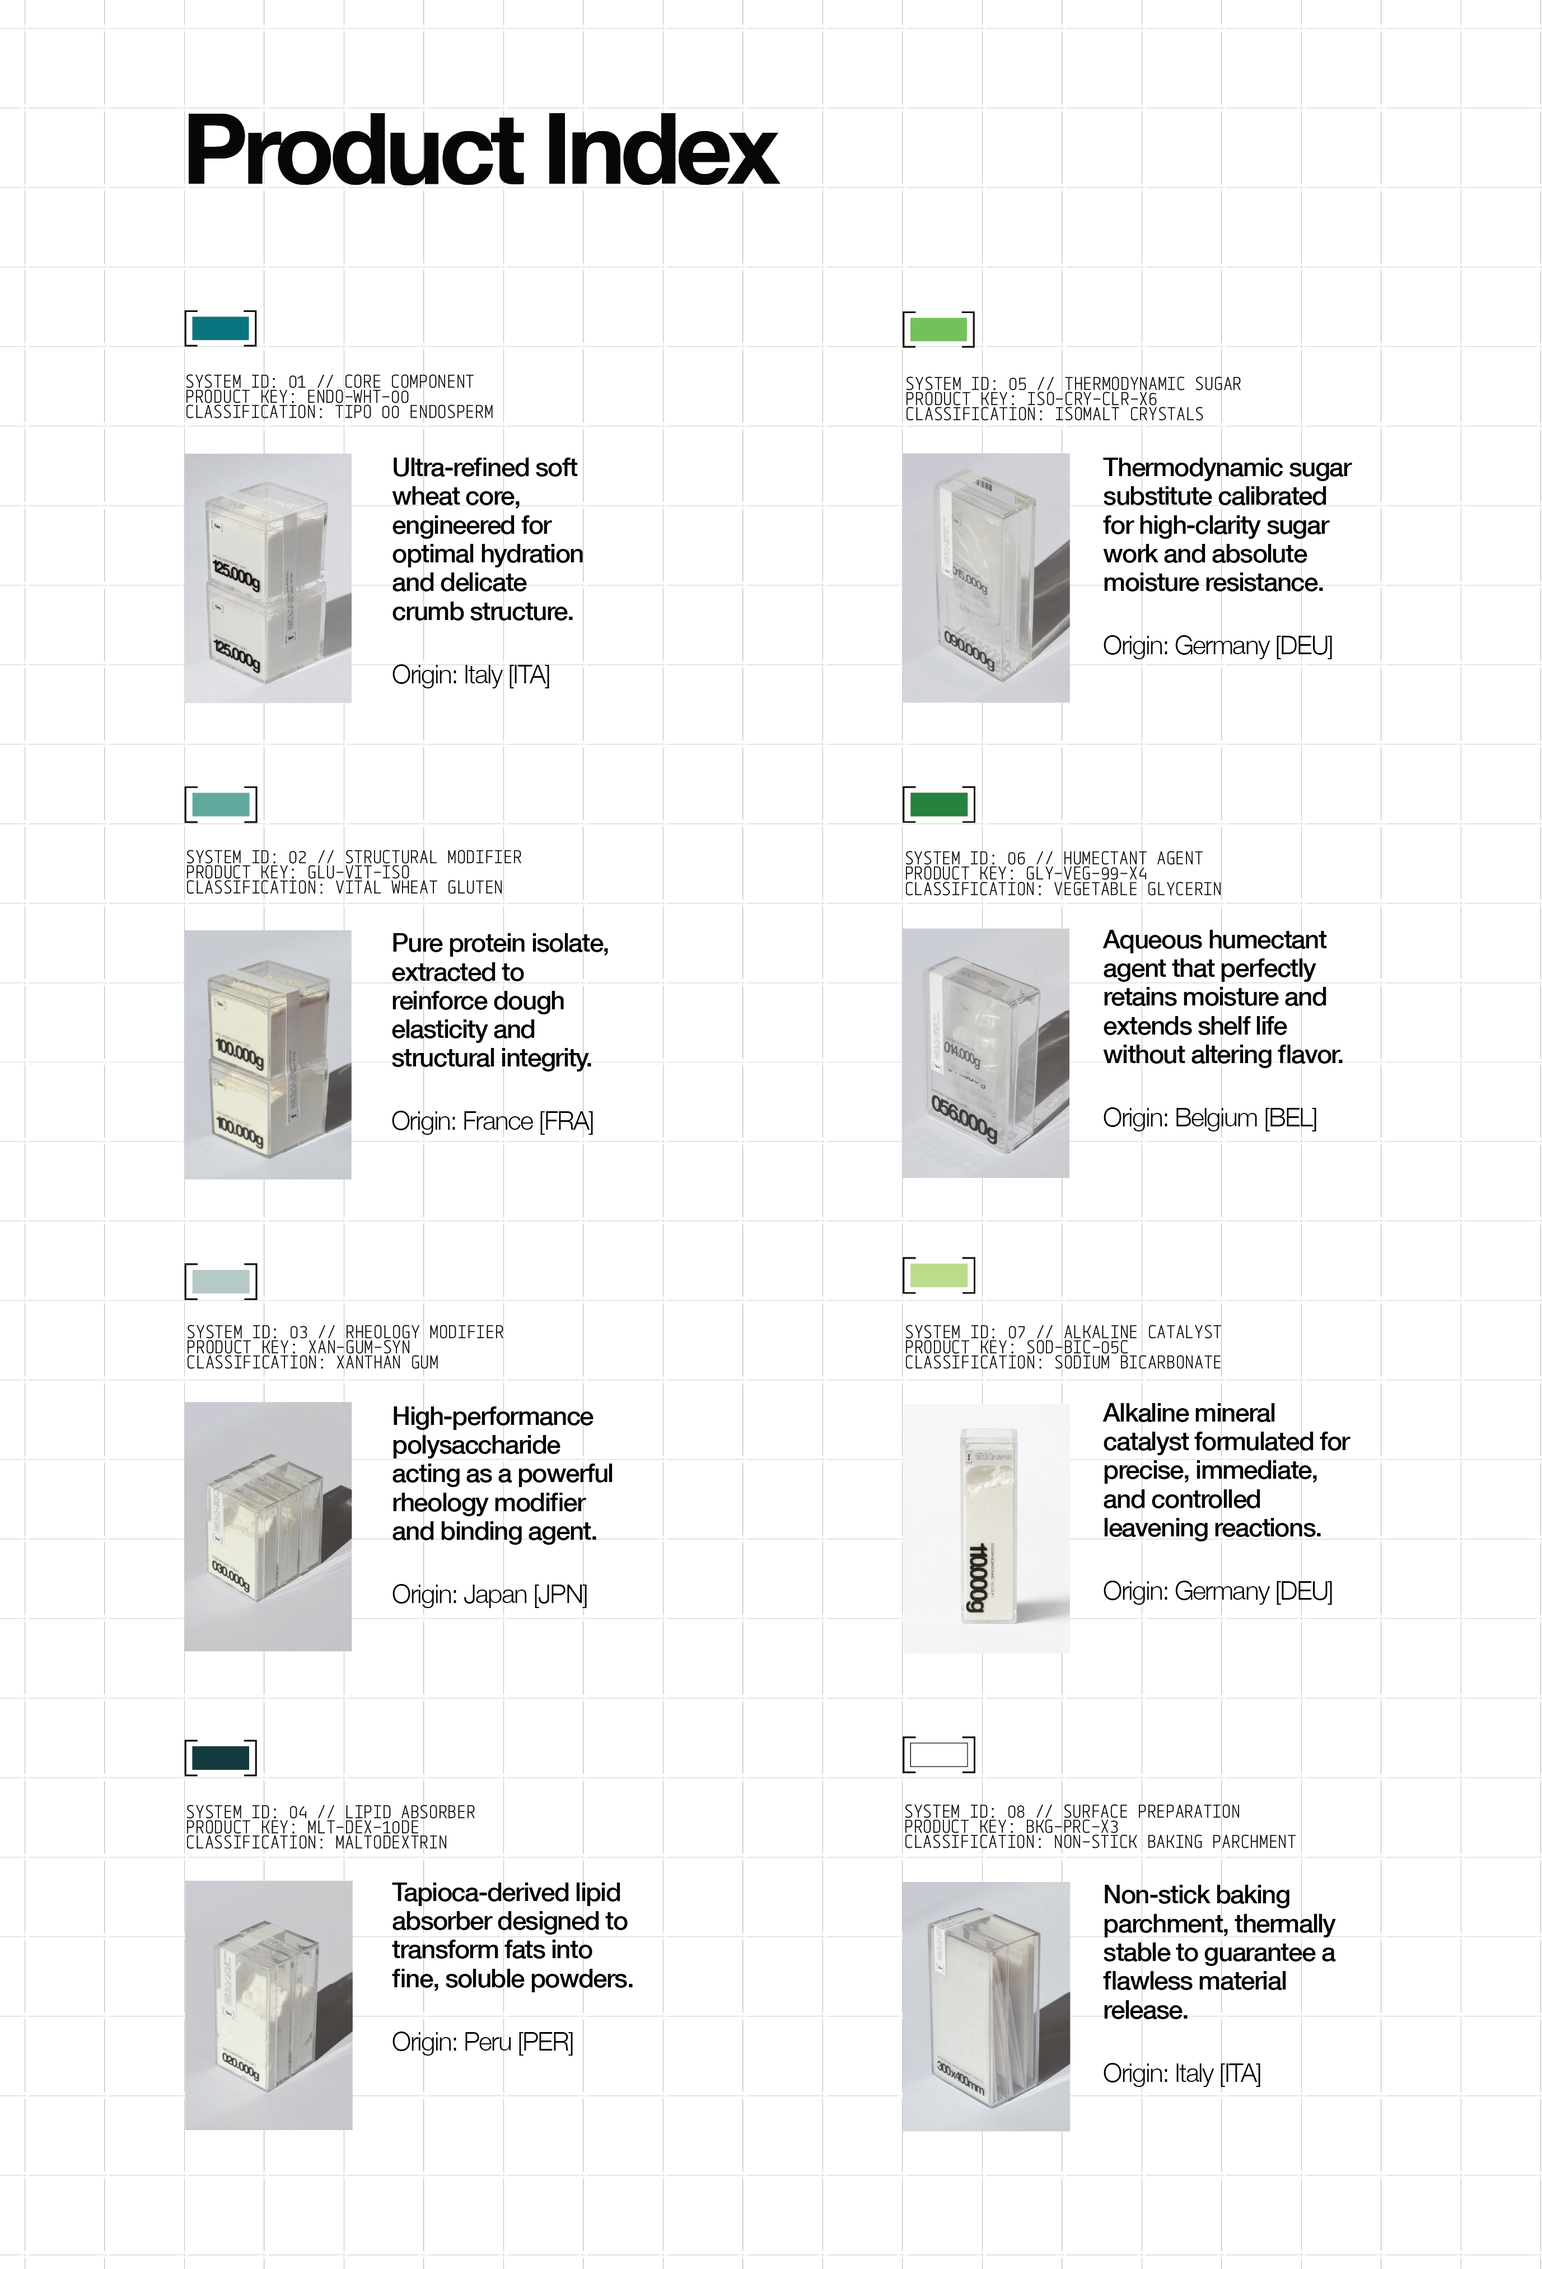
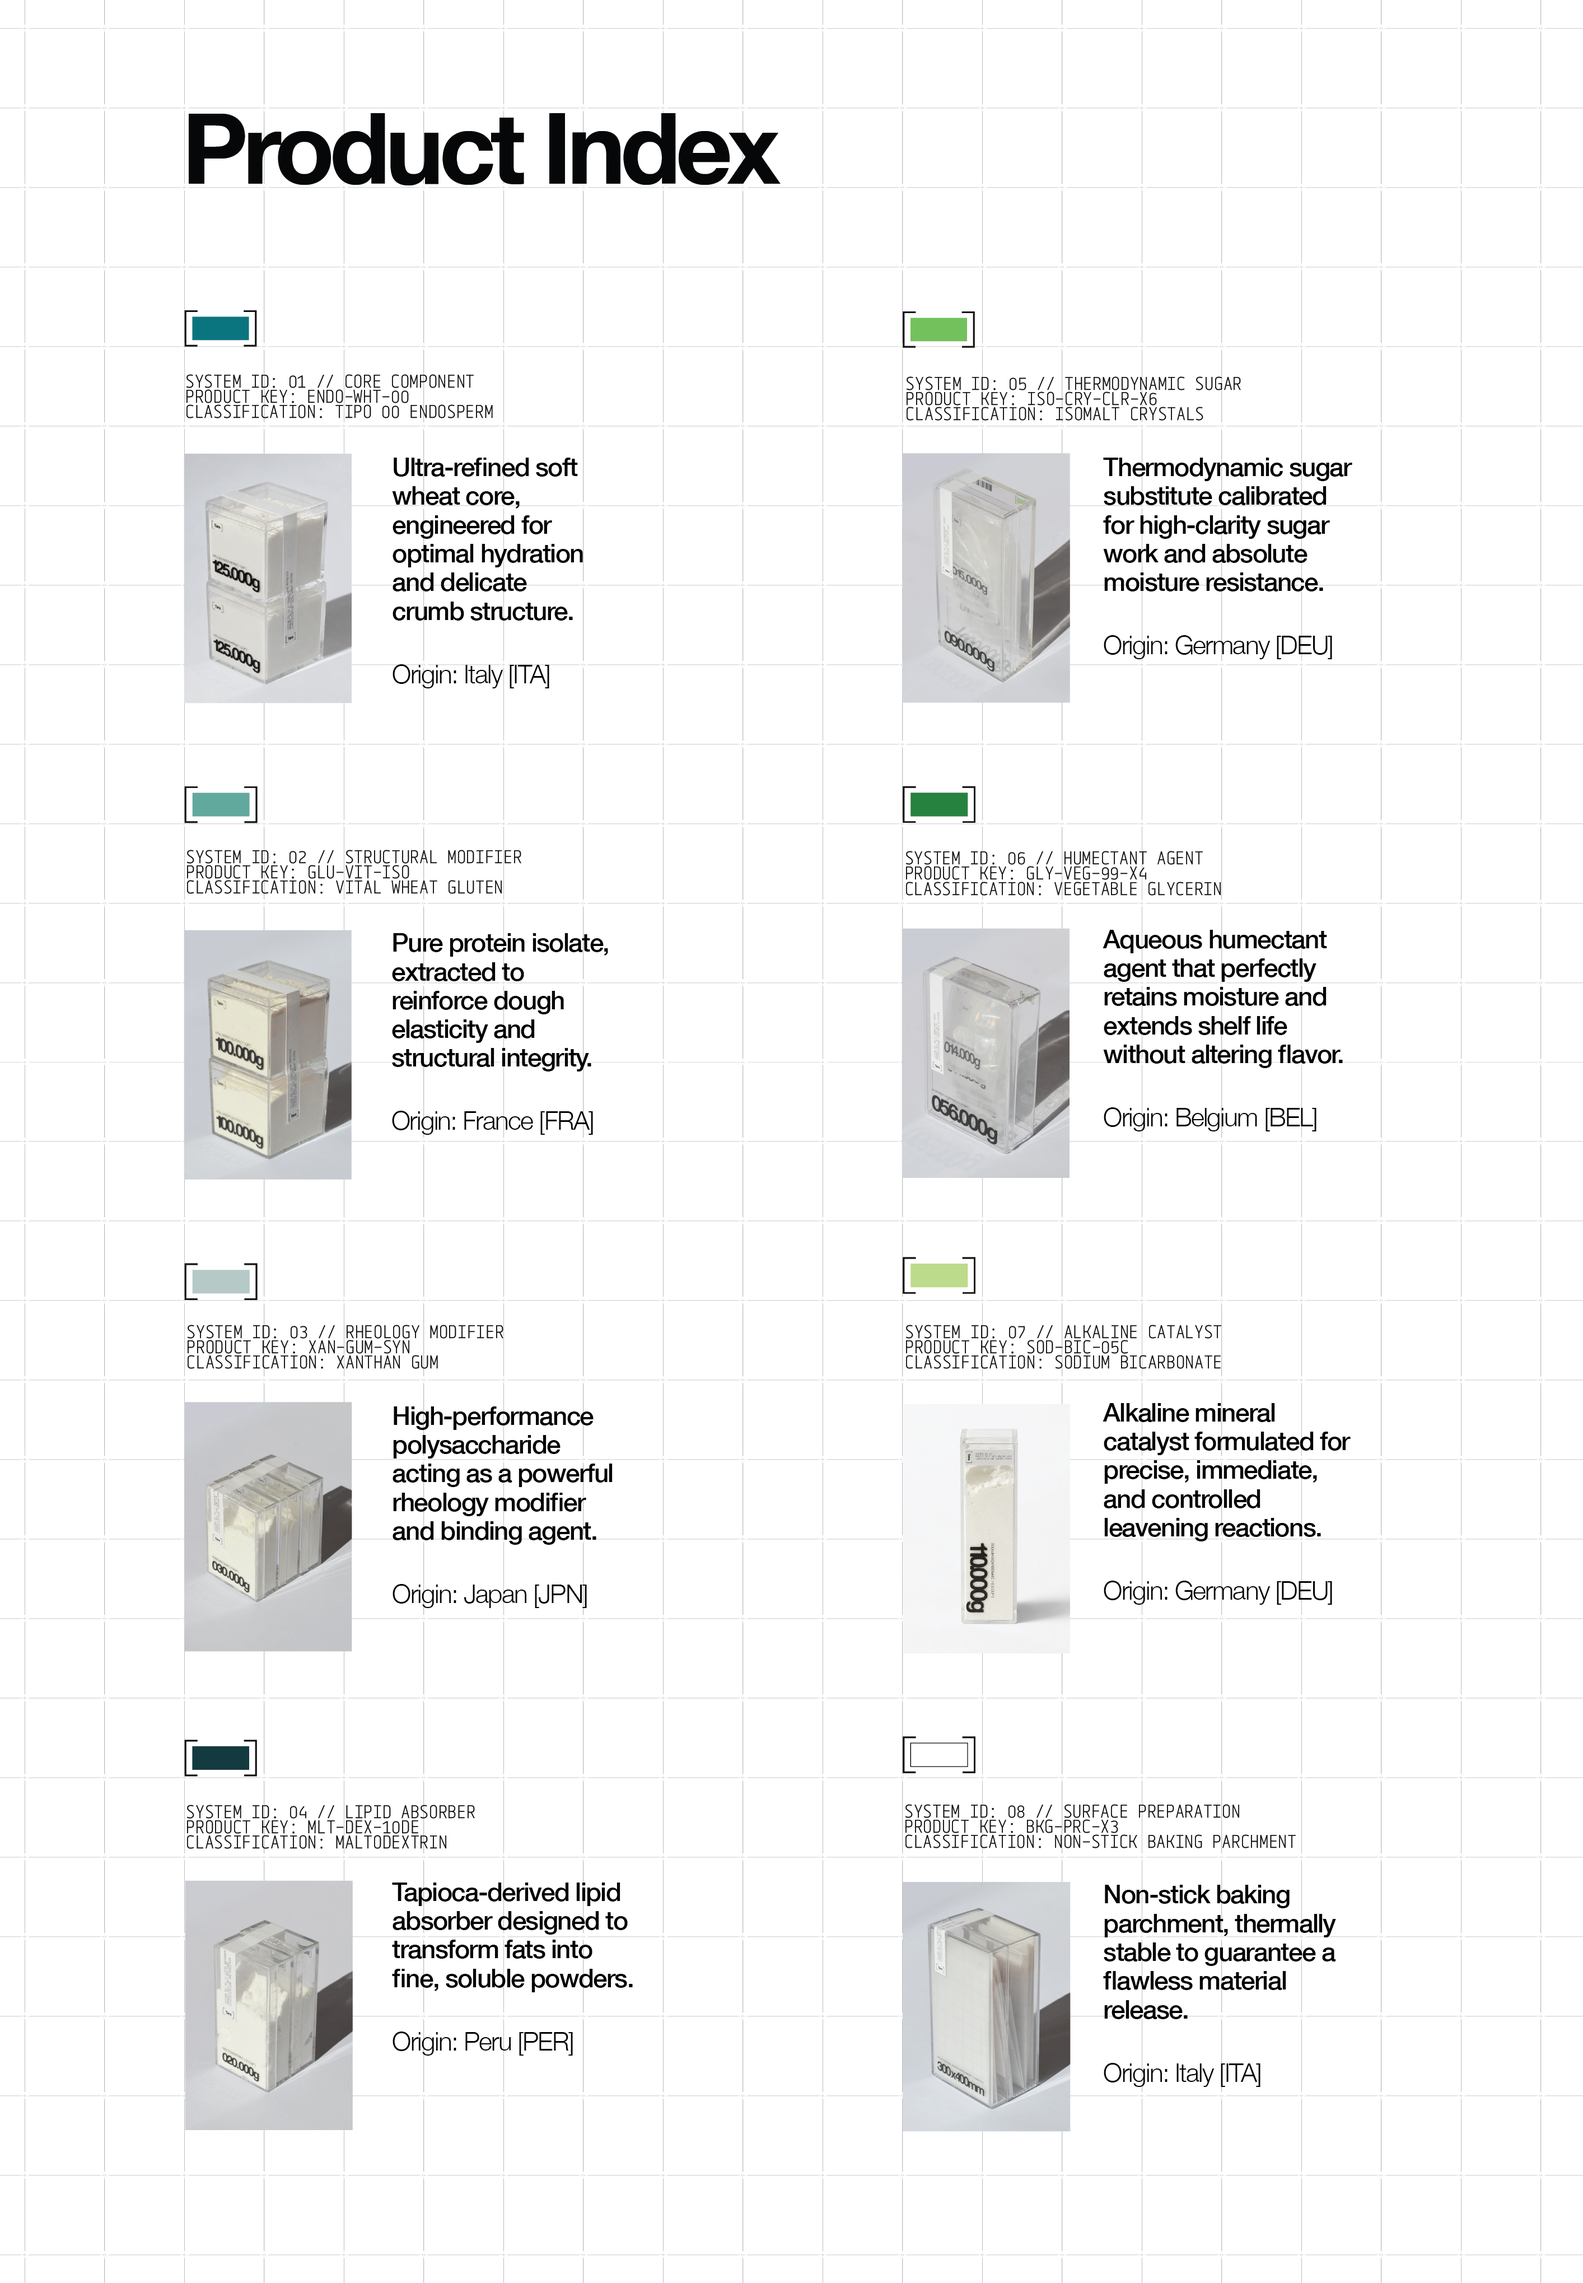
Update Project 8: new images 5 and 6, narrower cover ratio

diff --git a/index.html b/index.html
@@ -777,7 +777,7 @@ const projects = [
       { url: "projects/project 8/2.mp4", ratio: 0.8 },
       { url: "projects/project 8/3.png", ratio: 0.8 },
       { url: "projects/project 8/4.png", ratio: 0.8 },
-      { url: "projects/project 8/5.png", ratio: 0.68 },
+      { url: "projects/project 8/5.png", ratio: 0.69 },
       { url: "projects/project 8/6.png", ratio: 0.68 },
       { url: "projects/project 8/7.mp4", ratio: 0.8 }
     ]
@@ -884,7 +884,7 @@ function buildHome() {
   const stripHeight = strip.parentElement.offsetHeight;
 
   projects.forEach((p, i) => {
-    const coverRatios = [0.64, 0.8, 0.65, 0.664, 0.8, 0.8, 0.6, 0.8];
+    const coverRatios = [0.64, 0.8, 0.65, 0.664, 0.8, 0.8, 0.6, 0.68];
     const mobileMultipliers = [1.08, 0.85, 1.10, 1.0, 1.10, 1.0, 1.0, 1.0];
     const desktopMultipliers = [1.10, 0.85, 1.0, 1.0, 1.0, 1.0, 1.0, 1.0];
     const ratio = coverRatios[i] || 1.0;
